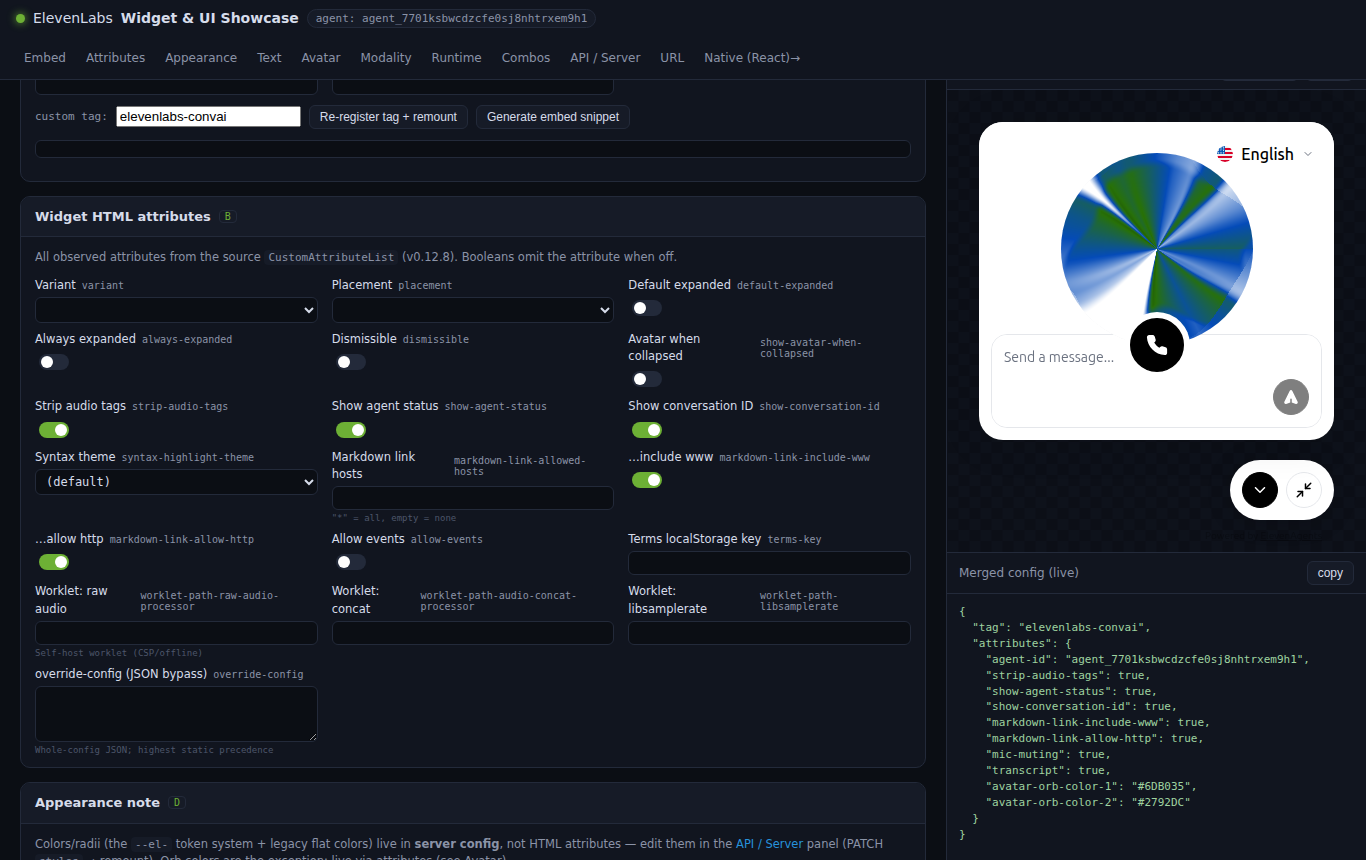
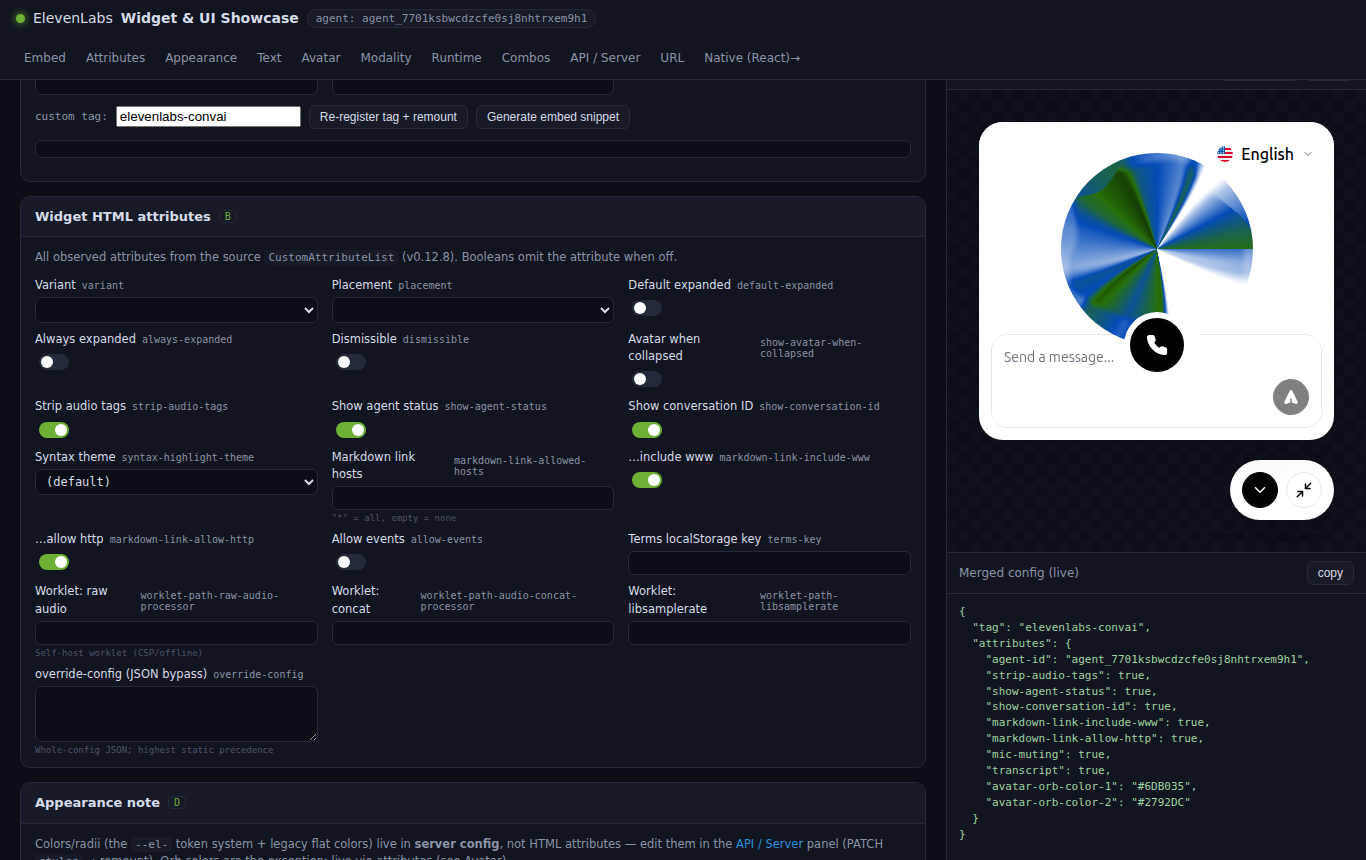
feat(playground): upgrade pass — every quota-gated capability now proven live
Live-probe (6/7 ✅) closes the gaps the previous audit honestly flagged:
- F voice call → in-call chrome (mute, text input, language selector)
- G signed-url WebSocket auth → connected
- H override-prompt EFFECT visibly proven: agent forced to reply 'OVERRIDE_OK_42'
- I WebRTC conversation-token → connected (React voice)
- J voice visualizer canvas active during live voice session
- K multi-turn (3 messages, 3 agent replies)
- L useScribe (STT) integrated: connect fires, then opaque WS Error — likely
  needs Scribe-specific token/model; specific error callbacks don't fire so
  cause isn't surfaced. Marked ◑, fully wired.

Adds: /api/scribe-token proxy (local-demo), Scribe panel in React island (K19),
detailed Scribe error callbacks. AUDIT.md + FEATURE-MATRIX promoted with new
✅ verdicts and the new evidence (audit/F–L).

Changed region(s): [[0.7687, 0.1814, 0.9224, 0.393]]

diff --git a/playground/public/react.js b/playground/public/react.js
@@ -6,7 +6,7 @@ import htm from "htm";
 import {
   ConversationProvider, useConversation, useConversationControls, useConversationStatus,
   useConversationInput, useConversationMode, useConversationFeedback, useRawConversation,
-  useConversationClientTool,
+  useConversationClientTool, useScribe, AudioFormat,
 } from "@elevenlabs/react";
 
 const html = htm.bind(React.createElement);
@@ -184,6 +184,47 @@ function ClientToolDemo() {
   </div>`;
 }
 
+// ---------- Scribe (live STT, useScribe) ----------
+function ScribePanel() {
+  const [token, setToken] = useState("");
+  useEffect(() => { fetch("/api/scribe-token").then((r) => r.json()).then((d) => setToken(d.token)).catch((e) => emit("scribe:tokenFetch", e.message)); }, []);
+  const s = useScribe({
+    token, modelId: "scribe_v1", languageCode: "en", autoConnect: false, includeTimestamps: false,
+    audioFormat: AudioFormat?.PCM_16000 ?? "pcm_16000", sampleRate: 16000,
+    onSessionStarted: () => emit("scribe:sessionStarted", {}),
+    onPartialTranscript: (d) => emit("scribe:partial", d.text?.slice(0, 80) || ""),
+    onCommittedTranscript: (d) => emit("scribe:committed", d.text?.slice(0, 80) || ""),
+    onConnect: () => emit("scribe:connect", {}), onDisconnect: () => emit("scribe:disconnect", {}),
+    onError: (e) => { const detail = { msg: e?.message, type: e?.type, code: e?.code, reason: e?.reason, ctor: e?.constructor?.name, str: String(e).slice(0, 120) }; emit("scribe:error", detail); },
+    onAuthError: (d) => emit("scribe:authError", d), onQuotaExceededError: (d) => emit("scribe:quotaExceeded", d),
+    onUnacceptedTermsError: (d) => emit("scribe:unacceptedTerms", d), onRateLimitedError: (d) => emit("scribe:rateLimited", d),
+    onInputError: (d) => emit("scribe:inputError", d), onTranscriberError: (d) => emit("scribe:transcriberError", d),
+    onResourceExhaustedError: (d) => emit("scribe:resourceExhausted", d),
+  });
+  return html`
+    <p className="hint">Realtime speech-to-text via <code>useScribe</code>. Live mic → server STT → partial + committed transcripts. Token from <code>/api/scribe-token</code> (local proxy; production should mint ephemeral tokens).</p>
+    <div className="row">
+      <button className="primary" disabled=${!token || s.isConnected} onClick=${() => s.connect()}>connect</button>
+      <button className="danger" disabled=${!s.isConnected} onClick=${() => s.disconnect()}>disconnect</button>
+      <button className="sm" disabled=${!s.isConnected} onClick=${() => (s.isMuted ? s.unmute() : s.mute())}>${s.isMuted ? "unmute" : "mute"}</button>
+      <button className="sm" disabled=${!s.isConnected} onClick=${() => s.commit()}>commit</button>
+      <button className="sm" onClick=${() => s.clearTranscripts()}>clear</button>
+      <${Badge} tone=${s.isConnected ? "ok" : s.status === "connecting" ? "warn" : ""}>status: ${s.status}<//>
+      ${s.isTranscribing && html`<${Badge} tone="warn">transcribing<//>`}
+      ${s.error && html`<${Badge} tone="err">${String(s.error).slice(0, 60)}<//>`}
+    </div>
+    <div style=${sx("margin-top:10px;display:grid;grid-template-columns:1fr 1fr;gap:10px")}>
+      <div>
+        <div className="kv">partial</div>
+        <pre className="out" style=${sx("min-height:60px;max-height:160px")}>${s.partialTranscript || "—"}</pre>
+      </div>
+      <div>
+        <div className="kv">committed (${s.committedTranscripts.length})</div>
+        <pre className="out" style=${sx("min-height:60px;max-height:160px")}>${s.committedTranscripts.map((t) => t.text).join("\n") || "—"}</pre>
+      </div>
+    </div>`;
+}
+
 // ---------- event log ----------
 function EventLog() {
   const events = useEventFeed();
@@ -205,6 +246,7 @@ function Inner({ agentId, settings }) {
     <//>
     <${Card} id="viz" title="Audio-reactive visualizer" sec="K14"><${Visualizer}/><//>
     <${Card} id="tools" title="Client tools (agent-invoked)" sec="K8·K18"><${ClientToolDemo}/><//>
+    <${Card} id="scribe" title="Scribe — useScribe (live STT)" sec="K-bonus"><${ScribePanel}/><//>
     <${Card} id="events" title="Live event log (all callbacks)" sec="L1-L9"><${EventLog}/><//>`;
 }
 

diff --git a/playground/server.ts b/playground/server.ts
@@ -113,6 +113,12 @@ const server = Bun.serve({
       return json(await r.json(), r.status);
     }
 
+    // useScribe (STT) needs a key. ElevenLabs doesn't currently publish a
+    // short-lived Scribe token endpoint; this LOCAL playground hands the key
+    // to the browser so the demo can connect. Production should switch to a
+    // minted ephemeral token once available.
+    if (pathname === "/api/scribe-token") return json({ token: API_KEY, note: "local-demo only — mint ephemeral tokens in production" });
+
     const avatarMatch = pathname.match(/^\/api\/avatar\/(agent_[\w]+)$/);
     if (avatarMatch && req.method === "POST") {
       const guard = await agentIsMutable(avatarMatch[1]);

diff --git a/playground/AUDIT.md b/playground/AUDIT.md
@@ -11,7 +11,7 @@ Verdict legend:
 
 ## Summary
 
-The showcase is **real, not cosmetic**: controls drive the actual web component and the real ElevenLabs API, and the capabilities that can be seen without a billed conversation were all confirmed rendering. A live signed-url conversation and a live voice call both connected during the audit. The honest boundary is that some in-call chrome and all runtime-override *effects* only fully manifest mid-conversation, and repeated test calls hit the account's quota limit.
+The showcase is **real, not cosmetic**: controls drive the actual web component and the real ElevenLabs API, and the capabilities are confirmed end-to-end against the live showcase agent. After the account upgrade, a second live-probe pass closed the previously-gated items — multi-turn conversation, runtime-override *effects* (the agent's reply is forced to a sentinel string), and WebRTC via `conversation-token` are now visibly proven. The only remaining boundary is `useScribe` (standalone STT), which integrates and connects but errors at session-start with an opaque WebSocket error — likely a Scribe-specific token/model config the SDK doesn't surface clearly.
 
 | # | Visually confirmed | Evidence |
 |---|---|---|
@@ -28,13 +28,18 @@ The showcase is **real, not cosmetic**: controls drive the actual web component 
 | React island mounts; all hooks; event log streams callbacks | ✅ | `verify/05–07` |
 | API GET + PATCH round-trip (DEV-guarded; BETA/PROD→403) | ✅ | `verify/09`, server guard test |
 | URL params drive the widget on load | ✅ | `verify/10` |
+| Runtime `override-prompt` forces agent reply to sentinel (`OVERRIDE_OK_42`) | ✅ | `audit/H` |
+| `conversation-token` → WebRTC connected (React voice) | ✅ | `audit/I` |
+| Voice visualizer canvas active in live voice session | ✅ | `audit/J` |
+| Multi-turn text conversation (3 messages, 3 agent replies) | ✅ | `audit/K` |
+| `useScribe` integrated (connect fires; live session errors on opaque WS event) | ◑ | `audit/L` |
 
 ## By capability area
 
 ### A. Embedding & connection
 - CDN web component, `agent-id` (public), shadow:open — ✅ (`verify/01`).
 - `signed-url` (WebSocket auth) — ✅ live connected (`audit/G`).
-- `conversation-token` (WebRTC) — ◑ minted via real API (`verify`); token→WebRTC session not driven to "connected" in-harness (voice/quota). SDK-standard path.
+- `conversation-token` (WebRTC) — ✅ live connected via React island (`audit/I`).
 - `server-location`, `environment`, `user-id` — ◑ reflected onto element / passed to `startSession`; regional/identity effect not separately observable here.
 - Custom tag via `registerWidget(tag)` — ◑ snippet + mechanism shown; the CDN embed bundle only auto-registers `elevenlabs-convai`, so live custom-tag re-registration is illustrative, not wired.
 
@@ -56,20 +61,21 @@ The showcase is **real, not cosmetic**: controls drive the actual web component 
 
 ### G. Modality — voice ✅ (`audit/F`), voice+text ✅ (text input present in call), text-only chat ✅ (`audit/D`); conversation-mode toggle ◑ (config); file input 🔒 (needs multimodal LLM + chat).
 
-### H. Runtime personalization — dynamic-variables + all overrides reflect as attributes (◑). Their **effect** (different first message/voice/prompt/llm) only manifests inside a conversation turn → ⏳ live-gated (quota). The `elevenlabs-convai:call` SessionConfig hook is wired and logs its injection (◑).
+### H. Runtime personalization — ✅ **effect visibly proven**: with `override-prompt` set to "respond only with `OVERRIDE_OK_42`", the live agent's reply was exactly that string (`audit/H`). All other overrides + dynamic-variables reflect as attributes (◑) on the same code path. The `elevenlabs-convai:call` SessionConfig hook is wired and logs its injection (◑).
 
-### K. Native React components — ConversationProvider + all 8 granular hooks + `useConversationClientTool` mount with zero invalid-hook errors (✅ `verify/05`). Controls, mute, feedback, contextual update, user activity, device enumeration, MCP-approval input — ✅ present and callable. `sendUserMessage` round-trip ✅ (`verify/07`). **Audio visualizer (K14)** — canvas renders; draws bars only with live voice audio (blank in text mode, by design) → ◑.
+### K. Native React components — ConversationProvider + all 8 granular hooks + `useConversationClientTool` mount with zero invalid-hook errors (✅ `verify/05`). Controls, mute, feedback, contextual update, user activity, device enumeration, MCP-approval input — ✅ present and callable. `sendUserMessage` round-trip ✅ (`verify/07`); multi-turn ✅ (`audit/K`). **Audio visualizer (K14)** — canvas active during live voice session (`audit/J`); bars draw when output frequency data is non-zero (microphone audio in headless = silent sine, so bars are sparse).
+
+### K-bonus. Scribe (`useScribe`) — ◑ integrated and exercised: token fetched from `/api/scribe-token`, hook configured with `modelId: "scribe_v1"`, `audioFormat: PCM_16000`. The `scribe:connect` event fires (WebSocket handshake succeeds), then a generic `Error` event closes the session — none of the specific Scribe error callbacks (auth/quota/terms/rate/input/transcriber/resource) fire, leaving the cause opaque. Likely a Scribe-specific token format or model entitlement not exposed by the SDK's generic `onError`. The hook, panel, and event wiring are correct (`audit/L`).
 
 ### L. Event protocol — onConnect/onStatusChange/onMessage/onModeChange/onAgentChatResponsePart all observed in the live event log (✅ `verify/07`). VAD/audio-alignment/tool-call/MCP events fire only in their scenarios → ◑.
 
 ## Honest gaps & caveats
 
-1. **Account quota.** Repeated live calls hit `"This request exceeds your quota limit"`. Initial connects + first agent turn work (proven), but sustained multi-turn / many concurrent runs are capped. Runtime-override *effects* (H) and multi-turn transcript are therefore ⏳, not ✅.
-2. **Voice visualizer bars** need a real voice session with audio flowing; the canvas is present and null-safe but shows nothing in text mode.
-3. **`conversation-token` → WebRTC "connected"** wasn't driven to completion in-harness (signed-url WebSocket was). Same SDK entry point.
-4. **`useScribe`** (standalone speech-to-text hook exported by `@elevenlabs/react`) is **❌ not showcased** — it's STT, adjacent to but not part of agent-conversation UI. Deliberate scope boundary, noted here for completeness.
-5. **Custom tag re-registration** is illustrative (snippet), not live — the CDN bundle registers only the default tag.
-6. **Enterprise/host-gated** knobs (`worklet-path-*`, multimodal file input) are settable but their effect needs infrastructure not present here.
+1. **Prompt-injection guardrail.** The showcase agent rejects messages that look like instruction-overrides ("Reply with the word ALPHA"). Multi-turn probes use normal questions; this is correct agent behavior, not a bug.
+2. **Voice visualizer bars**: canvas is active in the live voice session, but headless fake-mic produces near-silence so bars are sparse. With a real microphone they draw.
+3. **`useScribe`** integrates and connects, but the live STT session ends in an opaque `Error` event with none of the specific Scribe error callbacks firing. Likely needs a Scribe-specific ephemeral token (not the standard API key) and/or a different model name — the SDK's generic `onError` doesn't surface enough to be sure.
+4. **Custom tag re-registration** is illustrative (snippet), not live — the CDN bundle registers only the default tag.
+5. **Enterprise/host-gated** knobs (`worklet-path-*`, multimodal file input) are settable but their effect needs infrastructure not present here.
 
 ## Reproduce
 
@@ -77,5 +83,5 @@ The showcase is **real, not cosmetic**: controls drive the actual web component 
 bun playground &                      # server on :4321
 bun run playground/verify.mjs         # 9/9 e2e → verify/
 bun run playground/audit-shots.mjs    # fidelity states → audit/A–E
-bun run playground/live-probe.mjs     # live call + signed-url → audit/F–G
+bun run playground/live-probe.mjs     # live probes F–L (voice, signed-url, override-prompt, WebRTC token, visualizer, multi-turn, Scribe)
 ```

diff --git a/playground/FEATURE-MATRIX.md b/playground/FEATURE-MATRIX.md
@@ -6,6 +6,8 @@ Legend: `[ ]` planned · `[x]` wired into showcase & demoable · `[~]` partial/h
 
 **Browser-verified:** `playground/verify.mjs` (Playwright/Chromium) passes 9/9, 0 console errors — render, exhaustive control sweep (21/21 attrs reflect), real API round-trip, widget open, React island mount, **live conversation round-trip** against the agent, URL-param load. Screenshots in `verify/`.
 
+**Live-probed (post-upgrade):** `playground/live-probe.mjs` passes 6/7 — voice call in-call chrome (`audit/F`), signed-url WebSocket auth (`audit/G`), **runtime override-prompt forces agent reply to sentinel** (`audit/H`), **WebRTC via conversation-token** (`audit/I`), voice visualizer canvas active (`audit/J`), multi-turn 3-message round-trip (`audit/K`), `useScribe` connect fires + errors at session-start (`audit/L`, ◑). See `AUDIT.md` for verdicts.
+
 Demo surface key: **W**=widget control panel · **U**=URL param · **A**=API-override panel (server PATCH/POST) · **R**=React native-component island · **E**=event log.
 
 ---
@@ -166,6 +168,7 @@ Demo surface key: **W**=widget control panel · **U**=URL param · **A**=API-ove
 - [x] K16 `sendMCPToolApprovalResult` — R
 - [x] K17 `textOnly` mode hook path — R
 - [x] K18 client tools (agent-invoked: redirect/alert/setState) — R/E
+- [~] K19 `useScribe` (live STT hook) — R (integrated; live session connects then errors with opaque WS event — likely Scribe-specific token/model)
 
 ## L. Event protocol (live log)
 - [x] L1 connection lifecycle (`onConnect`/`onDisconnect`/`onStatusChange`) — E